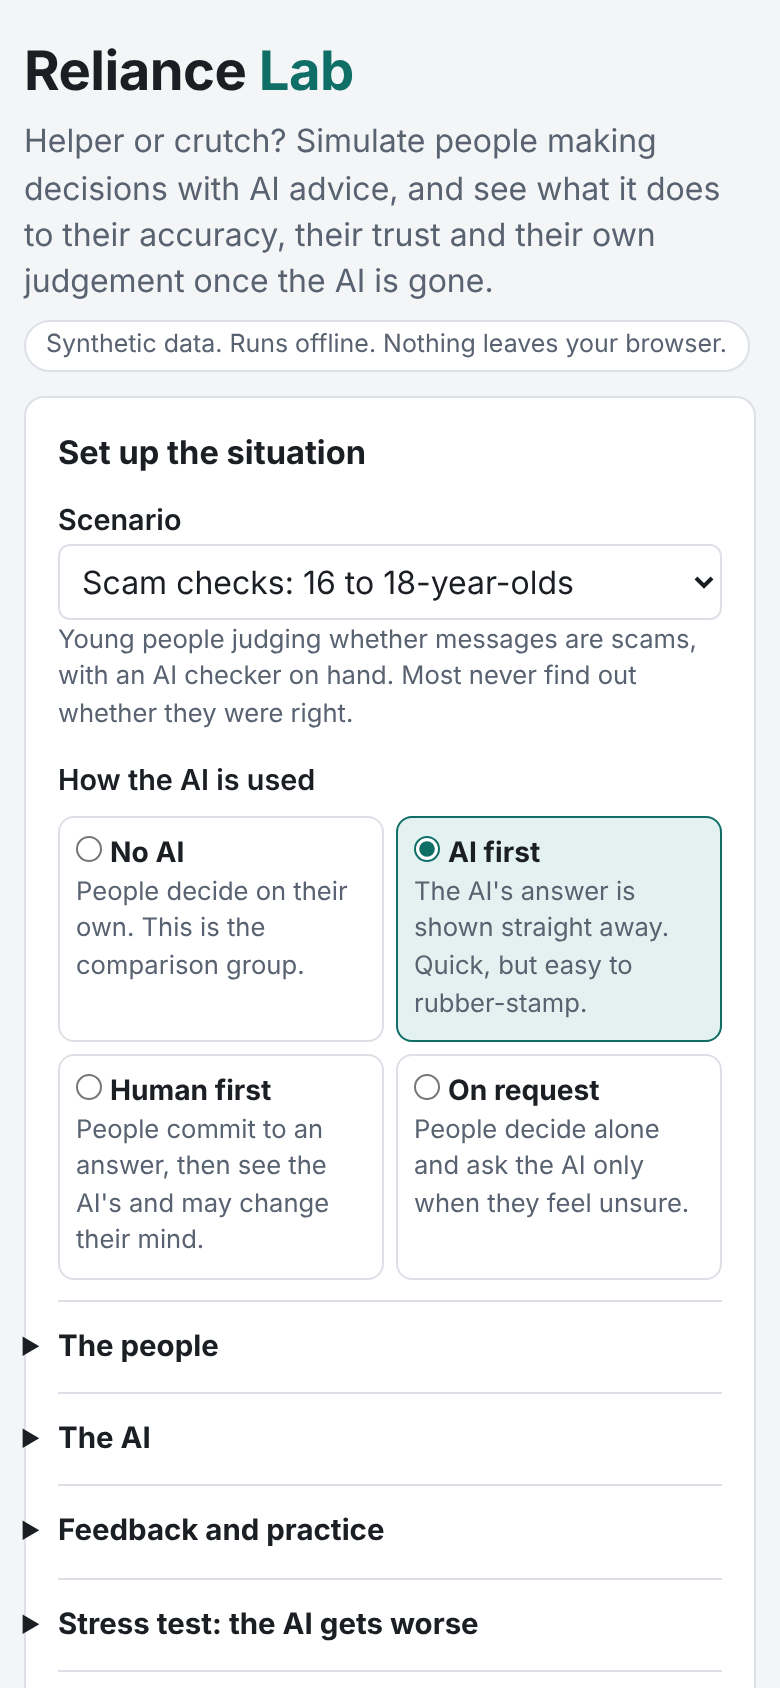
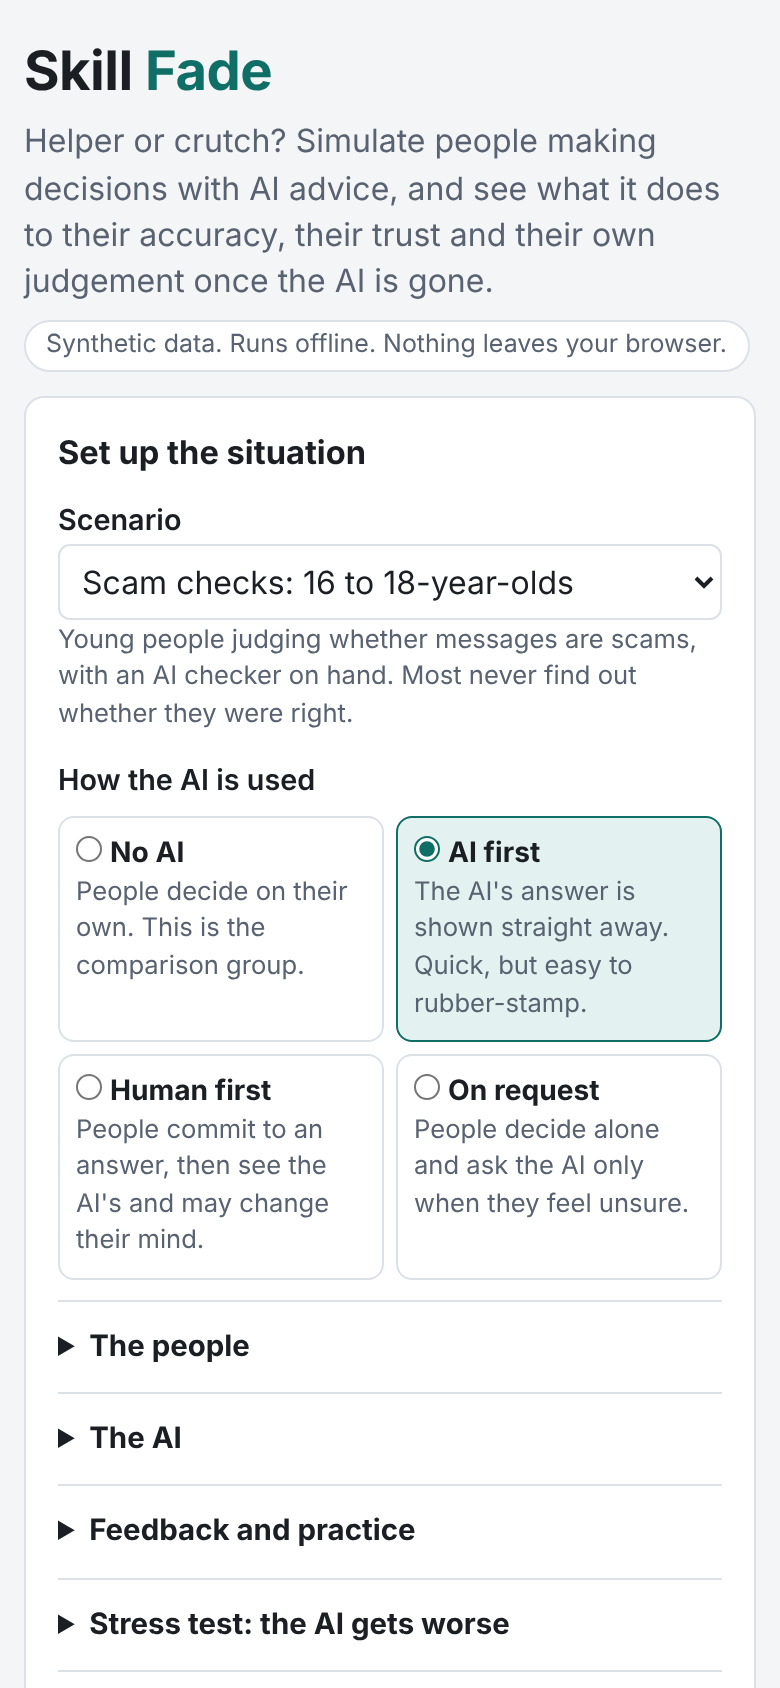
Rename to Skill Fade to avoid clashing with a same-day build, add a related builds section, tidy disclosure markers

diff --git a/app/index.html b/app/index.html
@@ -3,7 +3,7 @@
 <head>
 <meta charset="utf-8">
 <meta name="viewport" content="width=device-width, initial-scale=1">
-<title>Reliance Lab: helper or crutch?</title>
+<title>Skill Fade: helper or crutch?</title>
 <style>
   :root {
     --bg: #f4f5f7;
@@ -80,7 +80,7 @@
   .wf label:has(input:checked) { border-color: var(--accent); background: var(--accent-soft); }
   .wf label:has(input:focus-visible) { outline: 3px solid var(--accent); outline-offset: 1px; }
   details.group { border-top: 1px solid var(--line); padding-top: 10px; margin-top: 10px; }
-  details.group > summary { cursor: pointer; font-weight: 650; font-size: 0.92rem; list-style-position: outside; padding: 2px 0; }
+  details.group > summary { cursor: pointer; font-weight: 650; font-size: 0.92rem; padding: 2px 0; }
   .group-title { font-size: 0.78rem; text-transform: uppercase; letter-spacing: 0.05em; color: var(--muted); margin: 18px 0 4px; border-top: 1px solid var(--line); padding-top: 12px; }
   .verdict { border-left: 6px solid var(--nolift); display: flex; gap: 18px; align-items: flex-start; }
   .verdict-text { flex: 1; min-width: 0; }
@@ -166,7 +166,7 @@
 <body>
 <header>
   <div>
-    <h1>Reliance <span>Lab</span></h1>
+    <h1>Skill <span>Fade</span></h1>
     <p>Helper or crutch? Simulate people making decisions with AI advice, and see what it does to their accuracy, their trust and their own judgement once the AI is gone.</p>
   </div>
   <span class="chip">Synthetic data. Runs offline. Nothing leaves your browser.</span>
@@ -269,12 +269,12 @@
 </main>
 
 <footer>
-  <p>Reliance Lab is a thinking tool built on stated assumptions, not a forecast. All data is synthetic and generated in your browser.</p>
+  <p>Skill Fade is a thinking tool built on stated assumptions, not a forecast. All data is synthetic and generated in your browser.</p>
 </footer>
 
 <script>
 /* MODEL START */
-var RelianceModel = (function () {
+var SkillFadeModel = (function () {
   'use strict';
 
   // Fixed behavioural constants. They are documented in the README.
@@ -785,14 +785,14 @@ var RelianceModel = (function () {
   }
 
   function settingsFile(input) {
-    return { app: 'reliance-lab', version: 1, params: normaliseParams(input) };
+    return { app: 'skill-fade', version: 1, params: normaliseParams(input) };
   }
 
   function readSettingsFile(obj) {
-    if (!obj || typeof obj !== 'object') throw new Error('The file does not contain Reliance Lab settings.');
+    if (!obj || typeof obj !== 'object') throw new Error('The file does not contain Skill Fade settings.');
     var params = obj.params && typeof obj.params === 'object' ? obj.params : obj;
     var known = PARAMS.some(function (s) { return params[s.key] !== undefined; }) || params.workflow !== undefined;
-    if (!known) throw new Error('The file does not contain Reliance Lab settings.');
+    if (!known) throw new Error('The file does not contain Skill Fade settings.');
     return normaliseParams(params);
   }
 
@@ -819,14 +819,14 @@ var RelianceModel = (function () {
     encodeParams: encodeParams, decodeParams: decodeParams, settingsFile: settingsFile, readSettingsFile: readSettingsFile
   };
 })();
-if (typeof module !== 'undefined' && module.exports) module.exports = RelianceModel;
+if (typeof module !== 'undefined' && module.exports) module.exports = SkillFadeModel;
 /* MODEL END */
 </script>
 
 <script>
 (function () {
   'use strict';
-  var M = RelianceModel;
+  var M = SkillFadeModel;
   var state = { preset: 'scam_teens', params: M.presetParams('scam_teens') };
   var timer = null;
 
@@ -1140,11 +1140,11 @@ if (typeof module !== 'undefined' && module.exports) module.exports = RelianceMo
       var blob = new Blob([JSON.stringify(M.settingsFile(state.params), null, 2)], { type: 'application/json' });
       var a = document.createElement('a');
       a.href = URL.createObjectURL(blob);
-      a.download = 'reliance-lab-settings.json';
+      a.download = 'skill-fade-settings.json';
       document.body.appendChild(a);
       a.click();
       setTimeout(function () { URL.revokeObjectURL(a.href); a.remove(); }, 0);
-      setStatus('Saved reliance-lab-settings.json. The Python version can read it with --config.');
+      setStatus('Saved skill-fade-settings.json. The Python version can read it with --config.');
     });
     var upload = document.getElementById('upload');
     document.getElementById('upload-label').addEventListener('keydown', function (e) {

diff --git a/tests/model.test.js b/tests/model.test.js
@@ -244,7 +244,7 @@ test('settings survive a round trip through the link and the file', () => {
   const p = Object.assign(M.presetParams('lead_triage'), { driftAt: 70, showConfidence: false, seed: 1234 });
   assert.deepEqual(Object.assign({}, M.decodeParams('#' + M.encodeParams(p))), Object.assign({}, M.normaliseParams(p)));
   const file = JSON.parse(JSON.stringify(M.settingsFile(p)));
-  assert.equal(file.app, 'reliance-lab');
+  assert.equal(file.app, 'skill-fade');
   assert.deepEqual(Object.assign({}, M.readSettingsFile(file)), Object.assign({}, M.normaliseParams(p)));
   assert.equal(M.readSettingsFile({ aiAccuracy: 0.7 }).aiAccuracy, 0.7);
 });

diff --git a/skill_fade/cli.py b/skill_fade/cli.py
@@ -1,4 +1,4 @@
-"""Command-line interface: python -m reliance_lab <command> [options]."""
+"""Command-line interface: python -m skill_fade <command> [options]."""
 
 import argparse
 import csv
@@ -83,7 +83,7 @@ def format_run(a):
     r, c, v = a["result"], a["control"], a["verdict"]
     p = r["params"]
     lines = [
-        "Reliance Lab: %s, %d people, %d cases each" % (model.WORKFLOW_LABELS[p["workflow"]], p["people"], p["rounds"]),
+        "Skill Fade: %s, %d people, %d cases each" % (model.WORKFLOW_LABELS[p["workflow"]], p["people"], p["rounds"]),
         "",
         "Verdict: %s" % v["label"],
         "",
@@ -187,9 +187,9 @@ def format_robustness(sens, measure="skillGap"):
 def markdown_experiment(e):
     p = e["params"]
     lines = [
-        "# Reliance Lab: virtual experiment",
+        "# Skill Fade: virtual experiment",
         "",
-        "Synthetic data generated by the Reliance Lab model. Not real participants.",
+        "Synthetic data generated by the Skill Fade model. Not real participants.",
         "",
         "## Design",
         "",
@@ -253,8 +253,8 @@ def write_csv(e, path):
 
 
 def make_parser():
-    parser = argparse.ArgumentParser(prog="python -m reliance_lab",
-                                     description="Reliance Lab: does AI advice make people sharper or more dependent?")
+    parser = argparse.ArgumentParser(prog="python -m skill_fade",
+                                     description="Skill Fade: does AI advice make people sharper or more dependent?")
     sub = parser.add_subparsers(dest="command", required=True)
 
     def common(sp):

diff --git a/skill_fade/model.py b/skill_fade/model.py
@@ -1,4 +1,4 @@
-"""The Reliance Lab model, ported line for line from the browser app.
+"""The Skill Fade model, ported line for line from the browser app.
 
 Every random draw happens in the same order as in ``app/index.html`` and the
 random number generator is the same (Mulberry32), so for the same settings both
@@ -618,10 +618,10 @@ def explain(a):
 def read_settings_file(obj):
     """Accepts the JSON file the browser app downloads (or a flat dict of settings)."""
     if not isinstance(obj, dict):
-        raise ValueError("The file does not contain Reliance Lab settings.")
+        raise ValueError("The file does not contain Skill Fade settings.")
     params = obj["params"] if isinstance(obj.get("params"), dict) else obj
     if not any(key in params for key, *_rest in PARAMS) and "workflow" not in params:
-        raise ValueError("The file does not contain Reliance Lab settings.")
+        raise ValueError("The file does not contain Skill Fade settings.")
     return normalise_params(params)
 
 

diff --git a/tests/test_python.py b/tests/test_python.py
@@ -8,7 +8,7 @@ import os
 import tempfile
 import unittest
 
-from reliance_lab import cli, experiment, model, stats
+from skill_fade import cli, experiment, model, stats
 
 
 def run_cli(*args):
@@ -224,7 +224,7 @@ class CliTest(unittest.TestCase):
         self.assertIn("no verdict to test", out)
 
     def test_config_file_from_the_browser(self):
-        settings = {"app": "reliance-lab", "version": 1,
+        settings = {"app": "skill-fade", "version": 1,
                     "params": dict(model.preset_params("invoice_fraud"), people=60, rounds=30)}
         with tempfile.TemporaryDirectory() as tmp:
             path = os.path.join(tmp, "s.json")

diff --git a/tests/test_ui.py b/tests/test_ui.py
@@ -134,7 +134,7 @@ class UiTest(unittest.TestCase):
         path = info.value.path()
         with open(path, encoding="utf-8") as fh:
             saved = json.load(fh)
-        self.assertEqual(saved["app"], "reliance-lab")
+        self.assertEqual(saved["app"], "skill-fade")
         self.assertEqual(saved["params"]["workflow"], "human_first")
         page.select_option("#preset", "scam_teens")
         self.settle(page)

diff --git a/skill_fade/__init__.py b/skill_fade/__init__.py
@@ -1,4 +1,4 @@
-"""Reliance Lab: simulate how people work with AI advice and what it does to their own judgement."""
+"""Skill Fade: simulate how people work with AI advice and what it does to their own judgement."""
 
 from .model import analyse, normalise_params, preset_params, simulate
 

diff --git a/tests/test_parity.py b/tests/test_parity.py
@@ -7,7 +7,7 @@ import subprocess
 import unittest
 from pathlib import Path
 
-from reliance_lab import model
+from skill_fade import model
 
 ROOT = Path(__file__).resolve().parent.parent
 NODE = shutil.which("node")

diff --git a/README.md b/README.md
@@ -1,15 +1,15 @@
-# Reliance Lab
+# Skill Fade
 
-**Helper or crutch? What does AI advice do to people's own judgement?**
+**Helper or crutch? Does leaning on AI advice wear away people's own judgement over time?**
 
-Reliance Lab simulates people making yes-or-no decisions (is this message a scam? is this invoice fraudulent?) with an AI adviser on hand. You choose how the AI is built into the work, how good the people and the AI are, and how often anyone finds out the right answer. Then you watch accuracy, trust and each person's unaided judgement change case by case. Every run is compared with the same people practising without the AI, so the app can say whether the AI was a **helper** (more accurate, judgement intact) or a **crutch** (more accurate, but worse on their own afterwards).
+Skill Fade simulates people making yes-or-no decisions (is this message a scam? is this invoice fraudulent?) with an AI adviser on hand. You choose how the AI is built into the work, how good the people and the AI are, and how often anyone finds out the right answer. Then you watch accuracy, trust and each person's unaided judgement change case by case. Every run is compared with the same people practising without the AI, so the app can say whether the AI was a **helper** (more accurate, judgement intact) or a **crutch** (more accurate, but worse on their own afterwards).
 
 It comes in two parts built on the same model:
 
 - **The browser app** (`app/index.html`). Double-click it and it works: no installs, no internet connection, nothing sent anywhere.
-- **The Python companion** (`reliance_lab/`). The same model on the command line, plus a virtual randomised experiment with noisy tests and a power analysis: how many participants a real study would need to detect the effects. Standard library only.
+- **The Python companion** (`skill_fade/`). The same model on the command line, plus a virtual randomised experiment with noisy tests and a power analysis: how many participants a real study would need to detect the effects. Standard library only.
 
-![Reliance Lab on a desktop: the verdict, the reasons behind it and the headline numbers](docs/desktop.png)
+![Skill Fade on a desktop: the verdict, the reasons behind it and the headline numbers](docs/desktop.png)
 
 ## Why it matters
 
@@ -21,6 +21,13 @@ The project sits on two of the brief's priority themes:
 - **AI adoption beyond the pilot.** The fastest workflow (show the AI's answer first) is the one that looks best in a pilot dashboard and does the most hidden damage, which is a plausible reason organisations choose it.
 
 It grew out of a research question about young people and an AI scam checker: does the checker sharpen their judgement or replace it? The first preset ("Scam checks: 16 to 18-year-olds") is a stylised version of that setting, and the Python power analysis asks how large a study would need to be to tell the difference.
+
+## Related builds
+
+Two other builds from the same day look at people working with AI advice from different angles. Skill Fade is the only one about change over time: how trust and people's own skill move case by case, and whether the way the AI is built into the work leaves them better or worse on their own.
+
+- [Reliance lab](https://github.com/bb414/daily-builds/tree/build/2026-11-24-reliance-calibration-lab) is a closed-form model of a single decision: given both sides' accuracy and confidence, how accurate is the pair under four rules for settling disagreements? It has no learning, trust or time.
+- [Second opinion](https://github.com/bb414/daily-builds/tree/build/2026-11-24-second-opinion) is a test you take yourself, measuring how well one real person uses an AI checker's advice, with tools for analysing a real study. Skill Fade instead simulates whole groups, and its power analysis sizes a study of long-run effects on people's own judgement.
 
 ## Open the app
 
@@ -48,13 +55,13 @@ What you can do in it:
 
 It works on a phone as well as a desktop, every control can be used with a keyboard, and it supports dark mode. On a phone the settings fold away into sections so the verdict is never far down the page.
 
-<img src="docs/phone.png" alt="Reliance Lab on a phone" width="260">
+<img src="docs/phone.png" alt="Skill Fade on a phone" width="260">
 
 ![The stress test, the workflow comparison and the robustness check](docs/stress-test.png)
 
 ## What it shows
 
-All figures below come from the default "Scam checks" scenario (300 simulated people, 120 cases each, seed 42), produced by `python -m reliance_lab compare`. The browser app shows the same numbers.
+All figures below come from the default "Scam checks" scenario (300 simulated people, 120 cases each, seed 42), produced by `python -m skill_fade compare`. The browser app shows the same numbers.
 
 | Workflow | Accuracy with the AI | Own judgement afterwards | Followed wrong AI advice | Minutes per case | Verdict |
 |---|---|---|---|---|---|
@@ -76,18 +83,18 @@ The same pattern (AI first is a crutch, the other two are helpers) holds in the 
 Requires Python 3.9 or later. No packages to install. Run these from the project folder.
 
 ```bash
-python -m reliance_lab run                      # one workflow against the comparison group, with reasons
-python -m reliance_lab compare                  # all four workflows side by side
-python -m reliance_lab compare --set driftAt=80 # with the AI getting worse after case 80
-python -m reliance_lab robustness               # which assumptions could change the verdict?
-python -m reliance_lab experiment               # a virtual randomised experiment with noisy tests
-python -m reliance_lab power                    # how many participants a study would need
+python -m skill_fade run                      # one workflow against the comparison group, with reasons
+python -m skill_fade compare                  # all four workflows side by side
+python -m skill_fade compare --set driftAt=80 # with the AI getting worse after case 80
+python -m skill_fade robustness               # which assumptions could change the verdict?
+python -m skill_fade experiment               # a virtual randomised experiment with noisy tests
+python -m skill_fade power                    # how many participants a study would need
 
 # Options shared by every command
-python -m reliance_lab run --preset invoice_fraud --workflow human_first
-python -m reliance_lab run --set feedbackRate=0.5 --set aiAccuracy=0.9
-python -m reliance_lab run --config reliance-lab-settings.json   # settings downloaded from the app
-python -m reliance_lab experiment --csv participants.csv --markdown report.md
+python -m skill_fade run --preset invoice_fraud --workflow human_first
+python -m skill_fade run --set feedbackRate=0.5 --set aiAccuracy=0.9
+python -m skill_fade run --config skill-fade-settings.json   # settings downloaded from the app
+python -m skill_fade experiment --csv participants.csv --markdown report.md
 ```
 
 The **virtual experiment** is the part the browser app cannot do. Each simulated participant takes a 20-item test on their own, works through the cases with the AI, then takes a second test on their own, so the results include the measurement noise a real study would have. With 60 participants per arm (seed 42):
@@ -112,8 +119,8 @@ The accuracy gain during training is obvious (about +17 points, p < 0.001), but 
 | `app/index.html` | HTML and CSS | 270 | Layout, styling, light and dark themes, phone layout |
 | `app/index.html` (model block) | JavaScript | 550 | The simulation, verdicts, explanations, robustness check, settings links and files |
 | `app/index.html` (interface) | JavaScript | 600 | Controls, charts, tables, chunked running so large simulations never freeze the page |
-| `reliance_lab/model.py` | Python | 640 | A line-for-line port of the model block |
-| `reliance_lab/experiment.py`, `stats.py`, `cli.py` | Python | 600 | Virtual experiment, power analysis, Welch's t-test, command-line tool and exports |
+| `skill_fade/model.py` | Python | 640 | A line-for-line port of the model block |
+| `skill_fade/experiment.py`, `stats.py`, `cli.py` | Python | 600 | Virtual experiment, power analysis, Welch's t-test, command-line tool and exports |
 | `tests/` | JavaScript and Python | 960 | Model tests in Node.js, Python tests, a parity test and browser tests |
 
 The browser app is the version anyone can open and use. Python adds the heavier, batch-style work: many participants, repeated studies for the power analysis, CSV and Markdown exports.
@@ -136,7 +143,7 @@ Each simulated person works through a series of yes-or-no cases.
 7. **Stress test.** After a chosen case the AI's real accuracy drops (it can only get worse), but its stated confidence does not change, so nobody is warned.
 8. **Verdict.** The same people and cases are run without the AI. More than 1 point more accurate with the AI counts as a lift; ending more than 1 point worse on their own than the comparison group counts as eroded judgement. The four combinations give Helper, Crutch, No lift and Liability.
 
-The fixed behavioural constants (how decisive people are, how noisy confidence is, how much the AI's answer anchors people, minutes per case) are listed at the top of the model block in `app/index.html` and in `reliance_lab/model.py`.
+The fixed behavioural constants (how decisive people are, how noisy confidence is, how much the AI's answer anchors people, minutes per case) are listed at the top of the model block in `app/index.html` and in `skill_fade/model.py`.
 
 ## Tests
 
